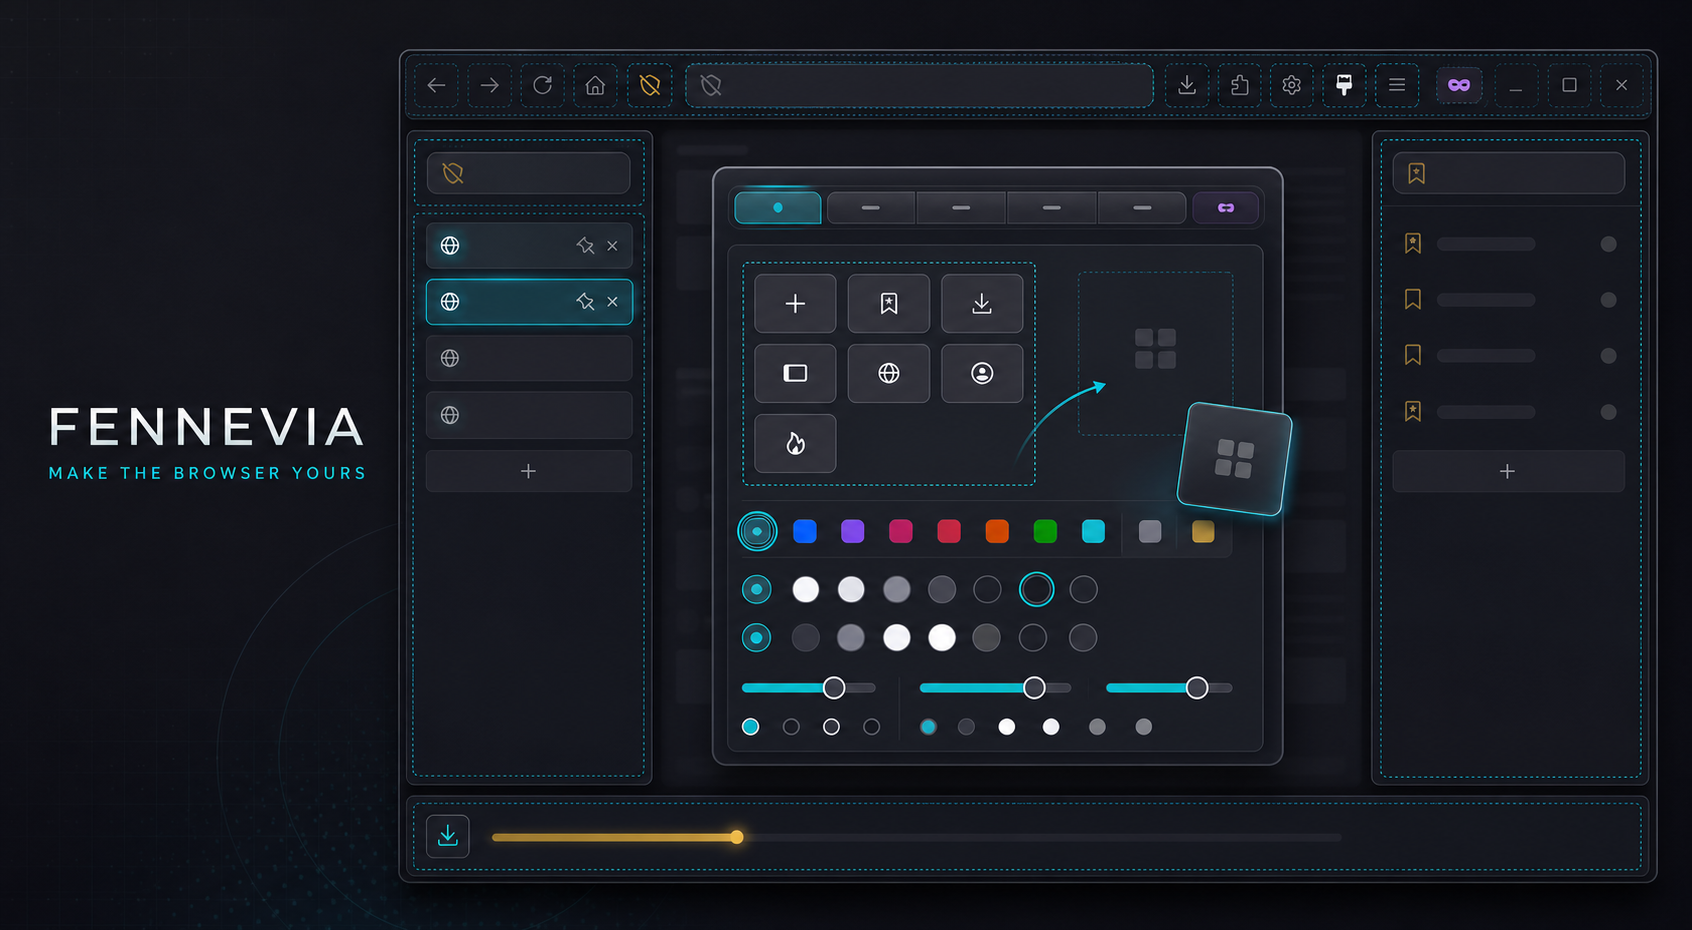
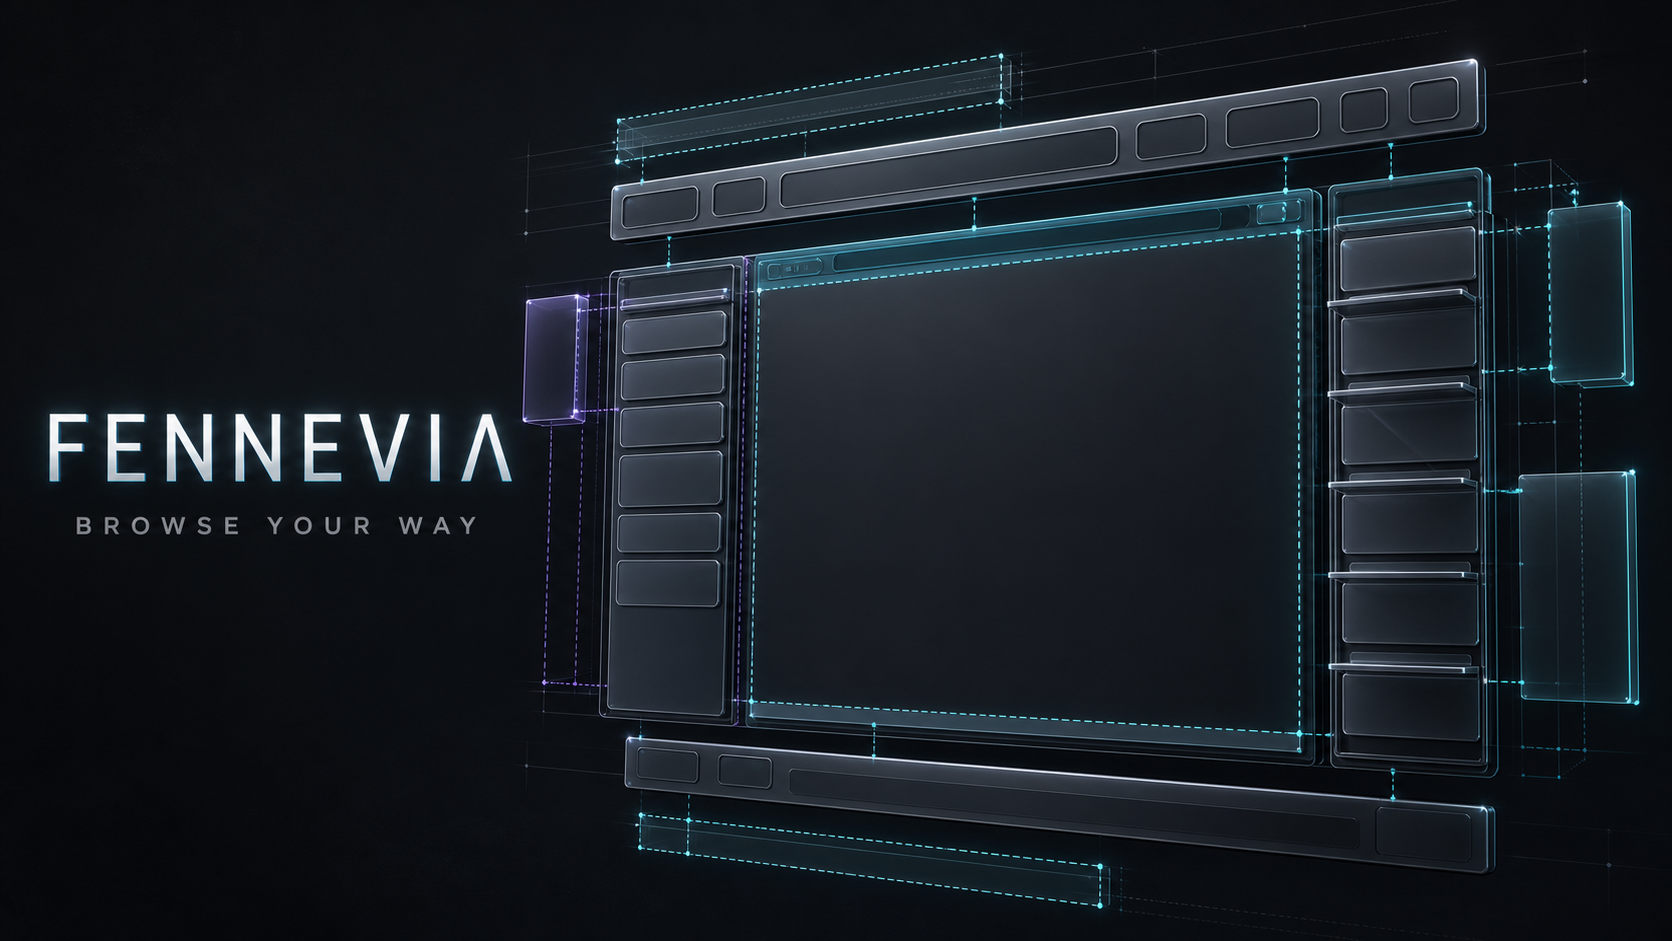
docs(readme): replace customization hero
Replace the English and Traditional Chinese README hero with the approved one-pass Fennevia brand illustration, and refresh its alt text and caption.

Record the no-reference generation prompt, checksum, and licensing provenance so the documentation-media inventory matches the committed asset.

Validation: no tests or build run for this README-only update, per owner request. Verified the staged diff, PNG dimensions and SHA-256, README references, and git diff checks.

diff --git a/docs/media/PROVENANCE.md b/docs/media/PROVENANCE.md
@@ -35,16 +35,14 @@ rights representation described by `docs/licensing-and-provenance.md` §4.
 ## 3. Generated README hero
 
 - Project path: `docs/media/fennevia-customize-hero.png`.
[2 lines of base64/hex data omitted]
 - Classification: generated documentation/brand artwork.
 - Generator: OpenAI's built-in image-generation tool; the tool did not expose a
   model/version identifier to this task.
-- Inputs: the owner-provided current Widgets, Panels, Interaction, Appearance,
-  and Guide captures as visual references, plus the project-authored prompt
-  below. The generator accepts at most five images, so the ordinary-layout
-  capture was not a generation input; the Widgets capture contains the same
-  four-edge composition. No prior repository SVG, source code, or external
-  design reference was supplied to the generator.
+- Inputs: the project-authored prompt below. The image was generated from a
+  blank canvas in one pass with no screenshot, prior generated image,
+  repository asset, source code, logo, icon, or external visual reference
+  supplied to the generator.
 - Rights basis: the OpenAI Terms of Use effective 2026-01-01 state that, as
   between the user and OpenAI and to the extent permitted by law, the user owns
   Output and OpenAI assigns any interest it has in that Output. The repository
@@ -60,17 +58,25 @@ rights representation described by `docs/licensing-and-provenance.md` §4.
 ### Final generation prompt
 
 ```text
-Use case: ads-marketing
-Asset type: stylized GitHub README brand hero for Fennevia
-Primary request: Create a premium brand illustration inspired by the supplied current Fennevia interface. Find the middle ground between an exact screenshot and a disconnected concept: preserve the recognizable four-edge layout and customization story, but abstract all real UI copy into elegant visual symbols.
-Reference use: use the screenshots only for layout proportions, panel hierarchy, dark material, cyan edit boundaries, gold site-status accent, customization controls, and the relationship between the address row and tabs. Do not reproduce their readable interface text.
-Core composition: wide landscape. A dark browser-like frame occupies about 75–80% of the canvas. It has a slim full-width Top edge, a Left edge with an address capsule aligned exactly to the same inner width as a larger vertical tab stack, a narrow Right bookmarks edge, and a Bottom download/status edge. A centered floating customization workspace sits above a visibly darkened inactive page.
-Customization visual language: cyan dotted outlines around every edge; a few elegant draggable modular tiles inside the center; one directional move cue; an abstract five-segment tab rail with no labels; a restrained color-swatch strip and radius/opacity controls made from dots and short bars. Make customization the focal point without showing dense settings.
-Brand area: reserve clean negative space on the left or upper-left. Render only exact brand text "FENNEVIA" and smaller exact style text "MAKE THE BROWSER YOURS". No other readable words, letters, numbers, URLs, labels, badges, or microcopy anywhere.
-Style/medium: sophisticated vector-like editorial illustration rendered as a crisp raster; GitHub dark-mode presentation; glassmorphism with disciplined depth; charcoal #181820 and #24242e, cyan #10bfd3, soft white, muted gold Trust accent, tiny purple accent. More stylized than a screenshot, but restrained and product-authentic.
-Geometry constraints: keep the real four-edge silhouette and panel proportions recognizable; address capsule and tab stack must share both horizontal edges; central workspace must sit inside the page opening and remain below Top and between Left/Right; Bottom stays directly under the center region. Website content behind the workspace is near-black and inactive.
-Visual polish: subtle technical grid, clean highlights, precise corner radii, soft shadows, sparse glow, strong hierarchy, generous breathing room. Suitable as the first image in a GitHub README.
-Avoid: any real UI text; fake UI text; random letters or numbers; private badge; extension logo; Firefox logo; GitHub logo; Octocat; URLs; page titles; decorative star/compass/planet; floating handles outside the browser frame; excessive neon; cyberpunk atmosphere; 3D device mockup; people; watermark; overly literal screenshot recreation.
+Create a new original high-resolution 16:9 GitHub README hero for Fennevia
+from a blank canvas. Do not use or reference any previous image. Make the
+brand name "FENNEVIA" prominent and legible on the left, with the short slogan
+"BROWSE YOUR WAY" beneath it.
+
+On the right, show a sophisticated abstract concept of browser chrome
+customization: a deconstructed modular browser shell with a blank top address
+bar and toolbar, vertical panel stacks on both sides, a bottom rail, floating
+empty widget blocks, subtle insertion guides, alignment measurements, and cyan
+dotted placement outlines. It should clearly communicate browser chrome and a
+customizable four-edge layout without showing a real screenshot.
+
+No icons, logos, app symbols, URL text, real UI labels, random letters or
+numbers, or microcopy beyond the exact brand and slogan. Use premium dark
+graphite glass and metal, cyan/teal edge light, restrained violet accents, a
+technical editorial blueprint style, crisp high-resolution raster rendering,
+generous negative space, and a polished GitHub-dark-mode presentation without
+becoming cyberpunk. The only readable text is "FENNEVIA" and
+"BROWSE YOUR WAY".
 ```
 
 ## 4. Privacy, security, and visual review
@@ -80,11 +86,11 @@ Avoid: any real UI text; fake UI text; random letters or numbers; private badge;
   screenshot. Visible labels and counts are generic shell UI.
 - A Private badge appears as an intentional product-state example, but no
   associated private browsing content or session data is present.
-- The generated hero contains no Firefox/GitHub logo, real UI label, URL,
-  browsing title, user data, or remote runtime dependency. It retains abstract
-  widget icon shapes inspired by the owner-provided customization reference;
-  none is shipped as a standalone reusable logo or runtime asset. The hero is
-  documentation only and is not included in the installed privileged package.
+- The generated hero contains no Firefox/GitHub logo, icon, real UI label, URL,
+  browsing title, user data, or remote runtime dependency. Its blank modular
+  browser-chrome forms were generated without a visual reference and are not
+  shipped as standalone reusable UI assets. The hero is documentation only and
+  is not included in the installed privileged package.
 - The images make no Firefox compatibility or completed-validation claim; both
   READMEs keep that evidence boundary beside the showcase.
 

diff --git a/THIRD_PARTY_NOTICES.md b/THIRD_PARTY_NOTICES.md
@@ -19,11 +19,12 @@ text preserved at the named notice path.
 - Owning decision and review: direct repository-owner request, reviewed
   2026-08-28 by Codex; no separate issue number was supplied.
 - Classification: six owner-provided runtime captures copied without raster
-  modification, plus one generated README hero based on five of those captures
-  and a project-authored prompt.
+  modification, plus one independently generated README hero created from a
+  blank canvas with a project-authored prompt.
 - Source: project-owner attachments supplied for this repository. The hero was
-  created with OpenAI's built-in image-generation tool; no exact model/version
-  identifier was exposed and no external design asset was supplied.
+  created with OpenAI's built-in image-generation tool without an image input;
+  no exact model/version identifier was exposed and no external design asset
+  was supplied.
 - Service terms/rights basis: OpenAI Terms of Use effective 2026-01-01,
   <https://openai.com/policies/terms-of-use/>. As between the user and OpenAI
   and to the extent permitted by law, the user owns Output and receives any
@@ -34,10 +35,11 @@ text preserved at the named notice path.
   `docs/media/PROVENANCE.md`.
 - License/notice treatment: the repository owner intentionally contributed the
   captures and requested the generated output under Fennevia's MPL-2.0 inbound
-  rule. Incidental product UI visible inside the captures and stylized hero is
-  not extracted or shipped as a standalone reusable logo or asset. No font
-  file, source code, separately downloaded raster, runtime dependency, or
-  release-package dependency is added.
+  rule. Incidental product UI visible inside the captures is not extracted or
+  shipped as a standalone reusable logo or asset; the hero contains original
+  abstract browser-chrome forms. No font file, source code, separately
+  downloaded raster, runtime dependency, or release-package dependency is
+  added.
 
 ## Material included in the distributed runtime
 

diff --git a/README.zh-Hant.md b/README.zh-Hant.md
@@ -2,9 +2,9 @@
 
 [English](README.md)
 
-![可完整自訂的 Fennevia 四邊介面](docs/media/fennevia-customize-hero.png)
+![Fennevia「Browse Your Way」品牌字樣，搭配模組化四邊瀏覽器介面藍圖](docs/media/fennevia-customize-hero.png)
 
-_這是專案風格化主視覺；下方另有目前版本的實機擷取畫面。_
+_這是呈現 Fennevia 模組化瀏覽器介面的原創品牌主視覺；下方另有目前版本的實機擷取畫面。_
 
 Fennevia 是一個為**原版 Firefox**製作、實驗性且以網頁內容為中心的瀏覽器介面。它讓網頁保持在畫面主體，並把瀏覽器控制項放到四個平時隱藏、需要時才浮現的邊緣面板。
 

diff --git a/README.md b/README.md
@@ -2,9 +2,9 @@
 
 [繁體中文](README.zh-Hant.md)
 
-![Fennevia's customizable four-edge interface](docs/media/fennevia-customize-hero.png)
+![Fennevia — Browse Your Way, beside a modular four-edge browser chrome blueprint](docs/media/fennevia-customize-hero.png)
 
-_A stylized project illustration. Current runtime screenshots appear below._
+_An original brand illustration of Fennevia's modular browser chrome. Current runtime screenshots appear below._
 
 Fennevia is an experimental, content-first interface for **stock Firefox**. It
 keeps the web page in the foreground and places browser controls in four
